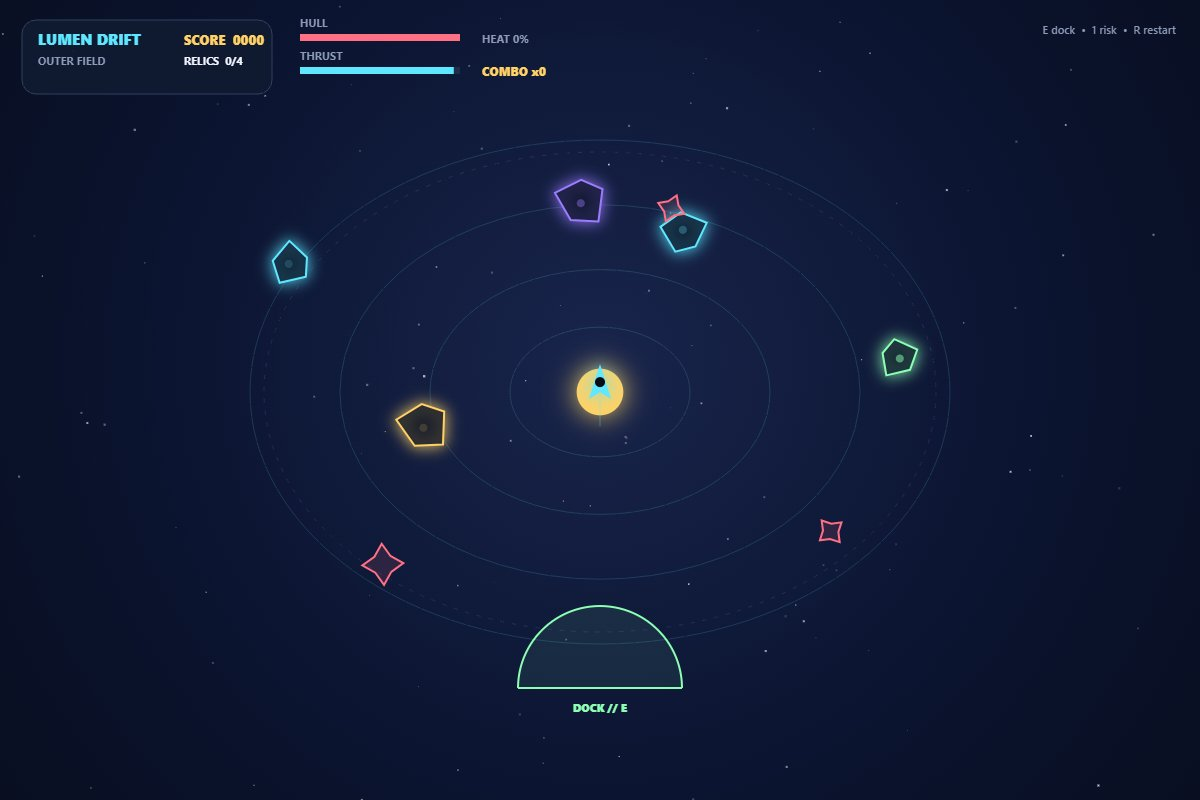
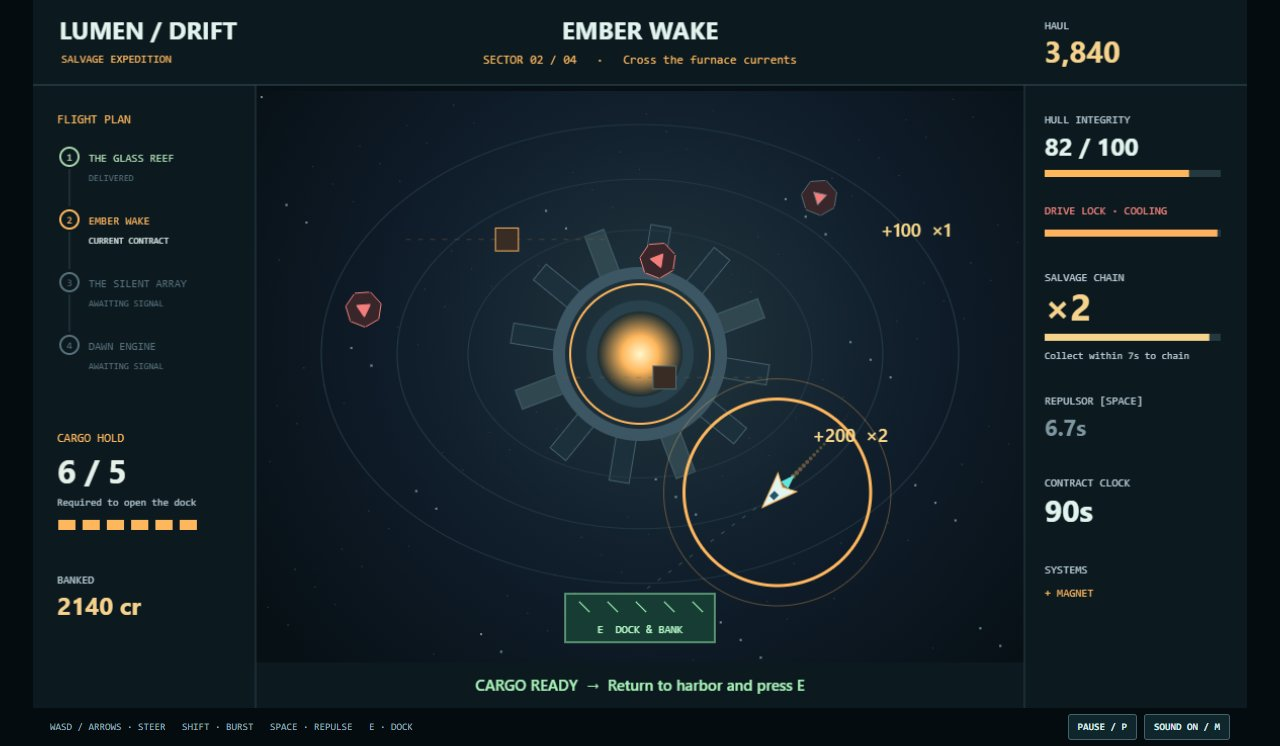
Expand Lumen Drift into four-sector salvage expedition

diff --git a/game/src/render.js b/game/src/render.js
@@ -1,0 +1,66 @@
+import {SECTORS} from './sectors.js';
+export function createRenderer(canvas){
+  const c=canvas.getContext('2d');canvas.width=1200;canvas.height=700;
+  function text(t,x,y,size=14,color='#b8cbd4',align='left'){c.fillStyle=color;c.font=`${size>=22?700:500} ${size}px ${size<15?'monospace':'system-ui'}`;c.textAlign=align;c.fillText(t,x,y);}
+  function line(x,y,a,b,color){c.strokeStyle=color;c.beginPath();c.moveTo(x,y);c.lineTo(a,b);c.stroke();}
+  function ring(x,y,r,col,width=1){c.strokeStyle=col;c.lineWidth=width;c.beginPath();c.arc(x,y,r,0,Math.PI*2);c.stroke();c.lineWidth=1;}
+  function polygon(x,y,r,n,angle,fill,stroke){c.beginPath();for(let i=0;i<n;i++){const a=angle+i*Math.PI*2/n;c.lineTo(x+Math.cos(a)*r,y+Math.sin(a)*r);}c.closePath();c.fillStyle=fill;c.fill();c.strokeStyle=stroke;c.stroke();}
+  return function renderMission(r,time){
+    const spec=SECTORS[r.sector],accent=spec.color;
+    c.fillStyle='#071015';c.fillRect(0,0,1200,700);
+    const nebula=c.createRadialGradient(620,330,20,620,330,480);nebula.addColorStop(0,'#20343d');nebula.addColorStop(.5,'#101d2b');nebula.addColorStop(1,'#071015');c.fillStyle=nebula;c.fillRect(220,90,760,570);
+    for(let i=0;i<150;i++){c.fillStyle=i%5===0?'#6f919c':'#2a444f';c.fillRect(225+(i*137.17)%750,95+(i*83.71)%560,i%5===0?2:1,i%5===0?2:1);}
+    // A broken orbital machine gives the salvage field a readable centre.
+    c.save();c.translate(600,350);c.rotate(time*.025);
+    for(let i=0;i<12;i++){c.save();c.rotate(i*Math.PI/6);c.fillStyle=i%3===0?'#304750':'#1b303a';c.fillRect(83,-10,45,20);c.strokeStyle='#45606a';c.strokeRect(83,-10,45,20);c.restore();}
+    ring(0,0,80,'#3c5663',12);ring(0,0,69,accent,2);ring(0,0,46,'#28414d',14);
+    const core=c.createRadialGradient(0,0,1,0,0,43);core.addColorStop(0,'#fff4c5');core.addColorStop(.4,accent);core.addColorStop(1,'#10242d');c.fillStyle=core;c.beginPath();c.arc(0,0,42,0,Math.PI*2);c.fill();c.restore();
+    for(const radius of [170,240,315]){c.save();c.translate(600,350);c.scale(1,.72);ring(0,0,radius,'#263e49');c.restore();}
+    for(const relic of r.relics)if(!relic.claimed){
+      ring(relic.x,relic.y,23+Math.sin(time*3)*2,accent+'55');
+      polygon(relic.x,relic.y,13,4,time*.5,'#19333c',relic.value===180?'#f5cf7a':accent);
+      c.fillStyle=relic.value===180?'#f5cf7a':accent;c.fillRect(relic.x-3,relic.y-3,6,6);
+      text(relic.value===180?'CORE':'SHARD',relic.x,relic.y+39,10,'#9db9c1','center');
+    }
+    for(const h of r.hazards){
+      const color=h.stunned?'#526b74':h.kind==='hunter'?'#e993ff':h.kind==='sentinel'?'#ffb35e':'#f47d7c';
+      if(h.kind==='sentinel'){
+        const hot=h.phase%5>3.8;c.setLineDash(hot?[]:[5,7]);line(h.x-100,h.y,h.x+100,h.y,hot?'#ffb35e':'#805c3970');c.setLineDash([]);
+        polygon(h.x,h.y,16,4,Math.PI/4,'#382c24',color);
+      }else if(h.kind==='hunter'){polygon(h.x,h.y,19,3,Math.atan2(r.ship.y-h.y,r.ship.x-h.x),'#39213f',color);ring(h.x,h.y,25,color+'55');}
+      else{polygon(h.x,h.y,18,7,h.phase,'#38262a',color);polygon(h.x,h.y,8,3,-h.phase,'#f47d7c',color);}
+    }
+    const ready=r.cargo>=spec.quota;
+    c.fillStyle=ready?'#173c34':'#172b30';c.fillRect(526,587,148,48);c.strokeStyle=ready?'#9cf4b4':'#4b6b70';c.strokeRect(526,587,148,48);
+    for(let i=0;i<5;i++){line(540+i*28,595,550+i*28,605,ready?'#9cf4b4':'#4b6b70');}
+    text(ready?'E  DOCK & BANK':'HARBOR  /  RETURN HERE',600,626,11,ready?'#baffcc':'#9db9c1','center');
+    if(ready){c.setLineDash([4,9]);line(r.ship.x,r.ship.y,600,587,'#9cf4b440');c.setLineDash([]);}
+    for(const p of r.trail){c.globalAlpha=Math.max(0,p.life)*.5;c.fillStyle=r.boosting?'#ffd98e':accent;c.beginPath();c.arc(p.x,p.y,3*p.life,0,Math.PI*2);c.fill();}c.globalAlpha=1;
+    if(r.pulseRadius){ring(r.ship.x,r.ship.y,170-r.pulseRadius,accent,3);ring(r.ship.x,r.ship.y,190-r.pulseRadius,accent+'55');}
+    c.save();c.translate(r.ship.x,r.ship.y);c.rotate(r.ship.angle);
+    if(r.invincible>0)c.globalAlpha=.45+.5*Math.sin(time*30)**2;
+    c.fillStyle=r.boosting?'#ffbf64':'#61e6df';c.beginPath();c.moveTo(-10,-5);c.lineTo(-24-(r.boosting?15:0)-Math.sin(time*30)*4,0);c.lineTo(-10,5);c.fill();
+    c.fillStyle='#e1f4ee';c.strokeStyle=accent;c.beginPath();c.moveTo(21,0);c.lineTo(-14,-13);c.lineTo(-7,0);c.lineTo(-14,13);c.closePath();c.fill();c.stroke();c.fillStyle='#25526a';c.fillRect(1,-3,7,6);c.restore();
+    for(const p of r.particles)text(p.text,p.x,p.y,18,'#f9d889','center');
+    // Cockpit rails: route left, resources right, objective across the bottom.
+    c.fillStyle='#0c191f';c.fillRect(0,0,1200,84);c.fillRect(0,84,220,616);c.fillRect(980,84,220,616);c.fillRect(220,655,760,45);
+    line(220,84,220,700,'#2a4149');line(980,84,980,700,'#2a4149');line(0,84,1200,84,'#35505a');
+    text('LUMEN / DRIFT',26,39,24,'#e1f4ee');text('SALVAGE EXPEDITION',28,62,11,accent);
+    text(spec.name,600,39,24,'#e1f4ee','center');text(`SECTOR 0${r.sector+1} / 04   ·   ${spec.subtitle}`,600,63,12,accent,'center');
+    text('HAUL',1000,29,11);text(r.score.toLocaleString(),1000,62,29,'#f6d38d');
+    text('FLIGHT PLAN',24,122,12,accent);
+    SECTORS.forEach((s,i)=>{const y=160+i*62,col=i===r.sector?accent:i<r.sector?'#a8d6ae':'#57717b';ring(36,y-5,9,col,2);if(i<3)line(36,y+7,36,y+44,'#30444d');text(String(i+1),36,y-1,10,col,'center');text(s.name,55,y,11,col);text(i<r.sector?'DELIVERED':i===r.sector?'CURRENT CONTRACT':'AWAITING SIGNAL',55,y+19,9,i===r.sector?'#d2e1df':'#57717b');});
+    text('CARGO HOLD',24,437,12,accent);text(`${r.cargo} / ${spec.quota}`,24,478,32,'#e4f0e8');text('Required to open the dock',24,500,10);
+    for(let i=0;i<spec.count;i++){c.fillStyle=i<r.cargo?accent:'#263a41';c.fillRect(25+i*24,514,17,10);}
+    text('BANKED',24,577,11);text(`${r.bank} cr`,24,608,24,'#f6d38d');
+    text('HULL INTEGRITY',1000,122,11);text(`${Math.ceil(r.hull)} / ${r.maxHull}`,1000,154,24,'#e1f4ee');
+    meter(c,1000,168,174,r.hull/r.maxHull,r.hull<35?'#fa8580':accent);
+    text(r.overheated?'DRIVE LOCK · COOLING':'DRIVE HEAT',1000,212,11,r.overheated?'#fa8580':'#b8cbd4');meter(c,1000,227,174,r.heat/100,'#ffb35e');
+    text('SALVAGE CHAIN',1000,278,11);text(`×${Math.max(1,r.combo)}`,1000,317,36,'#f6d38d');meter(c,1000,330,174,r.comboTime/7,'#f6d38d');text('Collect within 7s to chain',1000,355,10);
+    text('REPULSOR [SPACE]',1000,400,11);text(r.pulseCooldown>0?`${r.pulseCooldown.toFixed(1)}s`:'READY',1000,431,22,r.pulseCooldown>0?'#7d969f':accent);
+    text('CONTRACT CLOCK',1000,481,11);text(`${Math.ceil(r.remaining)}s`,1000,516,30,r.remaining<20?'#fa8580':'#e1f4ee');
+    text('SYSTEMS',1000,567,11);r.upgrades.forEach((u,i)=>text(`+ ${u.toUpperCase()}`,1000,590+i*19,11,accent));if(!r.upgrades.length)text('Stock salvage rig',1000,590,11);
+    text(ready?'CARGO READY  →  Return to harbor and press E':`RECOVER ${spec.quota-r.cargo} MORE  ·  Optional cores score extra`,600,683,15,ready?'#a8f3b8':'#d3e2df','center');
+  };
+}
+function meter(c,x,y,w,value,color){c.fillStyle='#253840';c.fillRect(x,y,w,7);c.fillStyle=color;c.fillRect(x,y,w*Math.max(0,Math.min(1,value)),7);}

diff --git a/game/src/mission.js b/game/src/mission.js
@@ -1,0 +1,68 @@
+import {SECTORS,populateSector} from './sectors.js';
+const clamp=(x,a,b)=>Math.max(a,Math.min(b,x));
+export function createMission(){
+  const run={phase:'play',sector:0,score:0,bank:0,cargo:0,delivered:0,hull:100,maxHull:100,heat:0,combo:0,comboTime:0,elapsed:0,remaining:100,invincible:0,pulseCooldown:0,pulseRadius:0,pickupRange:30,cooling:1,upgrades:[],events:[],trail:[],particles:[],hits:0,pulses:0,boosting:false,overheated:false,ship:{x:600,y:570,vx:0,vy:0,angle:-Math.PI/2}};
+  Object.assign(run,populateSector(0));return run;
+}
+export function tickMission(r,input,dt){
+  if(r.phase!=='play')return;
+  dt=clamp(dt,0,.05);r.elapsed+=dt;r.remaining-=dt;r.invincible=Math.max(0,r.invincible-dt);r.pulseCooldown=Math.max(0,r.pulseCooldown-dt);r.pulseRadius=Math.max(0,r.pulseRadius-dt*240);
+  r.comboTime=Math.max(0,r.comboTime-dt);if(!r.comboTime)r.combo=0;
+  r.heat=Math.max(0,r.heat-dt*18*r.cooling);if(r.heat<30)r.overheated=false;
+  const s=r.ship, dx=input.x||0,dy=input.y||0, length=Math.hypot(dx,dy)||1;
+  r.boosting=!!input.boost&&!r.overheated&&(dx!==0||dy!==0);
+  if(r.boosting){r.heat=Math.min(100,r.heat+dt*48);if(r.heat>=99){r.overheated=true;r.events.push('overheat');}}
+  const speed=r.boosting?300:190, blend=1-Math.exp(-dt*12);
+  s.vx+=(dx/length*speed-s.vx)*blend;s.vy+=(dy/length*speed-s.vy)*blend;
+  s.x=clamp(s.x+s.vx*dt,240,960);s.y=clamp(s.y+s.vy*dt,120,630);
+  if(Math.hypot(s.vx,s.vy)>10)s.angle=Math.atan2(s.vy,s.vx);
+  if(Math.hypot(s.vx,s.vy)>15){r.trail.push({x:s.x,y:s.y,life:1});if(r.trail.length>35)r.trail.shift();}
+  for(const p of r.trail)p.life-=dt*2;r.trail=r.trail.filter(p=>p.life>0);
+  for(const relic of r.relics){
+    if(!relic.claimed&&Math.hypot(s.x-relic.x,s.y-relic.y)<r.pickupRange){
+      relic.claimed=true;r.cargo++;r.combo=Math.min(5,r.combo+1);r.comboTime=7;
+      const points=relic.value*r.combo;r.score+=points;r.events.push('collect');
+      r.particles.push({x:relic.x,y:relic.y,text:`+${points}  ×${r.combo}`,life:1.4});
+    }
+  }
+  for(const h of r.hazards){
+    h.phase+=dt;h.stunned=Math.max(0,h.stunned-dt);
+    if(h.stunned)continue;
+    if(h.kind==='hunter'){
+      if(!h.x){h.x=600+Math.cos(h.angle)*h.radius;h.y=350+Math.sin(h.angle)*h.radius*.7;}
+      const distance=Math.hypot(s.x-h.x,s.y-h.y)||1;
+      const pace=distance<260?60+r.sector*8:20;
+      h.x+=(s.x-h.x)/distance*pace*dt;h.y+=(s.y-h.y)/distance*pace*dt;
+    }else{
+      h.angle+=dt*(h.kind==='sentinel'?.20:.40)*(h.radius%2?1:-1);
+      h.x=600+Math.cos(h.angle)*h.radius;h.y=350+Math.sin(h.angle)*h.radius*.72;
+    }
+    const beam=h.kind==='sentinel'&&h.phase%5>3.8;
+    const hit=Math.hypot(s.x-h.x,s.y-h.y)<h.r+14 || (beam&&Math.abs(s.y-h.y)<9&&Math.abs(s.x-h.x)<100);
+    if(hit&&r.invincible===0){r.hull=Math.max(0,r.hull-18);r.hits++;r.invincible=1.3;r.combo=0;r.events.push('hit');}
+  }
+  for(const p of r.particles){p.life-=dt;p.y-=dt*18;}r.particles=r.particles.filter(p=>p.life>0);
+  if(r.hull<=0||r.remaining<=0){r.phase='lost';r.events.push('lost');}
+}
+export function usePulse(r){
+  if(r.phase!=='play'||r.pulseCooldown>0)return false;
+  r.pulseCooldown=7;r.pulseRadius=150;r.pulses++;r.events.push('pulse');
+  for(const h of r.hazards)if(Math.hypot(r.ship.x-h.x,r.ship.y-h.y)<170){
+    h.stunned=2.8;
+    const dx=h.x-r.ship.x,dy=h.y-r.ship.y,d=Math.hypot(dx,dy)||1;
+    h.x+=dx/d*90;h.y+=dy/d*90;
+  }
+  return true;
+}
+export function tryDock(r){
+  if(r.phase!=='play'||Math.hypot(r.ship.x-600,r.ship.y-610)>68||r.cargo<SECTORS[r.sector].quota)return false;
+  r.delivered+=r.cargo;r.bank=r.score;r.events.push('dock');
+  r.phase=r.sector===3?'won':'upgrade';if(r.phase==='won'){r.score+=Math.round(r.remaining)*10;r.bank=r.score;}
+  return true;
+}
+export function chooseUpgrade(r,id){
+  if(r.phase!=='upgrade'||!['shield','magnet','cooling'].includes(id))return false;
+  r.upgrades.push(id);if(id==='shield')r.maxHull+=30;if(id==='magnet')r.pickupRange+=22;if(id==='cooling')r.cooling*=1.45;
+  r.sector++;r.cargo=0;r.combo=0;r.heat=0;r.overheated=false;r.hull=r.maxHull;r.remaining=SECTORS[r.sector].time;
+  r.ship={x:600,y:570,vx:0,vy:0,angle:-Math.PI/2};r.trail=[];r.phase='play';Object.assign(r,populateSector(r.sector));return true;
+}

diff --git a/game/src/style.css b/game/src/style.css
@@ -1,1 +1,1 @@
-:root{font-family:Inter,ui-sans-serif,system-ui,sans-serif;color:#f2f5ff;background:#070b16}*{box-sizing:border-box}html,body{margin:0;width:100%;height:100%;overflow:hidden;background:#070b16}body{display:grid;place-items:center}canvas{display:block;width:100vw;height:100vh;touch-action:none;cursor:crosshair}#status{position:absolute;width:1px;height:1px;overflow:hidden;clip-path:inset(50%);white-space:nowrap}
+:root{font-family:'Segoe UI',system-ui,sans-serif;color:#e1f4ee;background:#050c10}*{box-sizing:border-box}html,body{margin:0;width:100%;height:100%;overflow:hidden}body{display:flex;flex-direction:column;align-items:center;justify-content:center}#flight-deck{position:relative;width:min(100vw,calc((100vh - 38px)*12/7));aspect-ratio:12/7;overflow:hidden;background:#071015}canvas{display:block;width:100%;height:100%}#screens{position:absolute;inset:0;container-type:inline-size;background:#061016a8}#screens[hidden]{display:none}.briefing{position:absolute;inset:0;padding:4.8% 5%;background:linear-gradient(90deg,#09171ff5 0%,#09171ff2 45%,#09171f25 85%)}.eyebrow{font:600 1cqw monospace;letter-spacing:.17em;color:#72d9cf;margin:0 0 1.4cqw}h1{font-size:7.5cqw;letter-spacing:-.045em;line-height:.88;margin:0;font-weight:800}h1 span{color:#72d9cf}h2{font-size:4.7cqw;line-height:1.03;letter-spacing:-.04em;margin:1.3cqw 0 1.8cqw}.lead{font-size:1.9cqw;color:#e1f4ee;margin:1.6cqw 0}.intro{font-size:1.25cqw;line-height:1.6;color:#a4bac3}.brief-controls{display:grid;gap:.7cqw;margin:1.8cqw 0;font-size:1.1cqw}.brief-controls span{display:block}kbd{font:inherit;color:#c2f2e5}button{font:600 11px monospace;border:1px solid #45626b;background:#10262d;color:#d6e9e4;cursor:pointer;border-radius:3px;padding:9px 13px}button:hover{background:#25414a;border-color:#91e6d5}button:focus-visible{outline:3px solid #f5cf7a;outline-offset:3px}button:disabled{opacity:.4;cursor:default}#launch,.modal>button{background:#a5efca;color:#102a27;border:0;padding:1.1cqw 2cqw;font-size:1.15cqw}#title{background:#19343d;color:#cce1dd;margin-left:1cqw}.record{color:#7896a1;font:1cqw monospace;margin-top:1.5cqw}.field-guide{position:absolute;right:5%;bottom:12%;width:32%;padding:1.8cqw;background:#0b1b22ee;border:1px solid #35525d}.field-guide b{font:1.1cqw monospace;letter-spacing:.14em;color:#8ba9b3}.field-guide p{font:600 1.2cqw monospace;margin:1.7cqw 0 0}.field-guide small{display:block;margin:.7cqw 0 0 2.5cqw;font:1cqw 'Segoe UI',sans-serif;color:#9ab1bb}.field-guide i{font-style:normal;font-size:1.8cqw;margin-right:.5cqw}.red{color:#f47d7c}.gold{color:#ffb35e}.purple{color:#e993ff}.modal{position:absolute;inset:9% 9%;padding:3.5cqw;background:#0b1b23f5;border:1px solid #42626c;box-shadow:0 20px 100px #0008}.modal.compact{inset:24% 25%}.modal.compact h2{font-size:4cqw}.modal.compact p{font-size:1.3cqw}.modal.compact button{margin:.8cqw .5cqw 0 0}.upgrades{display:grid;grid-template-columns:repeat(3,1fr);gap:1.1cqw;margin:3cqw 0}.upgrades button{padding:1.6cqw;text-align:left;min-height:12cqw}.upgrades span{font:1cqw monospace;color:#87b9bb}.upgrades strong{display:block;font-size:1.5cqw;margin:1.3cqw 0}.upgrades small{font:1.1cqw 'Segoe UI',sans-serif;color:#9dbbc1;line-height:1.6}.hint{font:1.1cqw monospace;color:#a2bdc3}.results{display:grid;grid-template-columns:2fr 1fr 1fr 1fr;gap:2cqw;margin:2.7cqw 0;padding:2cqw 0;border-block:1px solid #35505a}.results small{display:block;font:1cqw monospace;color:#91adb7}.results strong{display:block;font-size:3.4cqw;color:#f5cf7a;margin-top:.7cqw}footer{height:38px;width:min(1200px,100%);display:flex;align-items:center;justify-content:space-between;padding:0 10px;gap:10px;color:#93aeb8;font:10px monospace}footer nav{display:flex;gap:7px}footer button{font-size:10px;padding:6px 9px}#status{position:absolute;width:1px;height:1px;overflow:hidden;clip-path:inset(50%)}@media(max-width:800px){footer>span{font-size:8px}footer button{font-size:8px;padding:5px}}@media(prefers-reduced-motion:reduce){*{scroll-behavior:auto}}

diff --git a/game/src/screens.js b/game/src/screens.js
@@ -1,0 +1,14 @@
+import {UPGRADES} from './sectors.js';
+export function createScreens(root,onAction){
+  let shown='';
+  root.addEventListener('click',e=>{const b=e.target.closest('button[data-action]');if(b)onAction(b.dataset.action);});
+  return function showScreen(phase,r,record){
+    if(shown===phase)return;shown=phase;root.hidden=phase==='play';
+    if(phase==='play'){root.innerHTML='';return;}
+    const button=(id,label)=>`<button id="${id}" data-action="${id}">${label}</button>`;
+    if(phase==='title')root.innerHTML=`<section class="briefing"><p class="eyebrow">FLIGHT DIVISION / EXPEDITION 04</p><h1>LUMEN<br><span>DRIFT</span></h1><p class="lead">Bring the last light home.</p><p class="intro">Four abandoned sectors. One salvage rig.<br>Chain recoveries, repel machines, and bank your cargo before the signal fades.</p><div class="brief-controls"><span><kbd>WASD</kbd> / arrows · steer</span><span><kbd>SHIFT</kbd> burst · watch heat</span><span><kbd>SPACE</kbd> repulse nearby threats</span><span><kbd>E</kbd> dock · repair & upgrade</span></div>${button('launch','LAUNCH EXPEDITION →')}<p class="record">PERSONAL BEST ${record.best.toLocaleString()} cr · ${record.wins} expeditions completed</p><div class="field-guide"><b>KNOW THE FIELD</b><p><i class="red">◆</i> DRIFTER <small>Circles the wreck. Cross its path carefully.</small></p><p><i class="gold">▣</i> SENTINEL <small>Dashed warning → horizontal beam.</small></p><p><i class="purple">△</i> HUNTER <small>Chases within range. Burst or repulse.</small></p></div></section>`;
+    if(phase==='upgrade')root.innerHTML=`<section class="modal"><p class="eyebrow">SECTOR ${r.sector+1} SECURED / CARGO BANKED</p><h2>Make the next<br>crossing yours.</h2><p class="lead">${r.bank.toLocaleString()} credits safe · full repairs on departure</p><div class="upgrades">${UPGRADES.map((u,i)=>`<button data-action="${u.id}"><span>0${i+1} / PRESS ${i+1}</span><strong>${u.name}</strong><small>${u.detail}</small></button>`).join('')}</div><p class="hint">Choose one permanent upgrade. Three choices. Four sectors.</p></section>`;
+    if(phase==='paused')root.innerHTML=`<section class="modal compact"><p class="eyebrow">FLIGHT SUSPENDED</p><h2>Take a breath.</h2><p>The clock and the field are paused.</p>${button('resume','RESUME FLIGHT / P')}${button('restart','RESTART EXPEDITION')}</section>`;
+    if(phase==='won'||phase==='lost')root.innerHTML=`<section class="modal"><p class="eyebrow">${phase==='won'?'ALL FOUR SECTORS RECOVERED':'EXPEDITION ENDED'}</p><h2>${phase==='won'?'The harbor<br>lights again.':'Signal lost.'}</h2><p class="lead">${phase==='won'?'SALVAGE CONTRACT COMPLETE':r.hull<=0?'Hull breached. Bank early and use your repulsor.':'Contract clock expired. Burst between recoveries.'}</p><div class="results"><div><small>${phase==='won'?'FINAL HAUL':'RECOVERED SCORE'}</small><strong>${r.score.toLocaleString()}</strong></div><div><small>DELIVERED</small><strong>${r.delivered}</strong></div><div><small>FLIGHT TIME</small><strong>${Math.round(r.elapsed)}s</strong></div><div><small>HULL HITS</small><strong>${r.hits}</strong></div></div><p class="record">PERSONAL BEST ${record.best.toLocaleString()} cr · ${record.wins} completed expeditions</p>${button('restart','FLY AGAIN / R')}${button('title','MISSION BRIEFING')}</section>`;
+  };
+}

diff --git a/game/src/flight.js b/game/src/flight.js
@@ -1,0 +1,51 @@
+import {createMission,tickMission,tryDock,chooseUpgrade,usePulse} from './mission.js';
+import {createRenderer} from './render.js';
+import {createScreens} from './screens.js';
+import {createInput} from './input.js';
+import {createAudio} from './audio.js';
+import {loadRecord,saveRecord} from './save.js';
+const canvas=document.querySelector('#game'),status=document.querySelector('#status');
+const render=createRenderer(canvas),sound=createAudio();
+let run=createMission(),phase='title',record=loadRecord(),last=0,recorded=false;
+const show=createScreens(document.querySelector('#screens'),act);
+const input=createInput(key=>{
+  if(key==='blur'){if(phase==='play')act('pause');return;}
+  if(key==='r')act('restart');
+  if(key==='p'||key==='escape')act(phase==='paused'?'resume':'pause');
+  if(key==='m')act('sound');
+  if((key==='enter'||key===' ')&&phase==='title')act('launch');
+  else if(key===' '&&phase==='play')usePulse(run);
+  if(key==='e')act('dock');
+  if(phase==='upgrade'&&['1','2','3'].includes(key))act(['shield','magnet','cooling'][Number(key)-1]);
+});
+function act(action){
+  if(action==='launch'||action==='restart'){run=createMission();phase='play';recorded=false;sound.play('launch');}
+  if(action==='pause'&&phase==='play'){phase='paused';run.phase='paused';}
+  if(action==='resume'&&phase==='paused'){phase='play';run.phase='play';}
+  if(action==='title'){phase='title';run=createMission();}
+  if(action==='dock'&&phase==='play'&&!tryDock(run))status.textContent='Collect the cargo quota, then fly into the harbor and press E.';
+  if(['shield','magnet','cooling'].includes(action)&&chooseUpgrade(run,action))phase='play';
+  if(action==='sound')document.querySelector('#sound').textContent=sound.toggle()?'SOUND OFF / M':'SOUND ON / M';
+}
+document.querySelector('#pause').onclick=()=>act(phase==='paused'?'resume':'pause');
+document.querySelector('#sound').onclick=()=>act('sound');
+canvas.addEventListener('pointerdown',e=>{
+  if(phase!=='play')return;
+  const b=canvas.getBoundingClientRect(),x=(e.clientX-b.left)*1200/b.width,y=(e.clientY-b.top)*700/b.height;
+  if(Math.hypot(x-600,y-610)<80)act('dock');else usePulse(run);
+});
+// Telemetry returns a copy; gameplay checks use normal keyboard input.
+window.lumenState=()=>JSON.parse(JSON.stringify({screen:phase,run,record}));
+function frame(now){
+  const dt=Math.min(.04,(now-last)/1000||0);last=now;
+  if(phase==='play'){
+    tickMission(run,input(),dt);phase=run.phase;
+    for(const event of run.events.splice(0))sound.play(event);
+    if((phase==='won'||phase==='lost')&&!recorded){record=saveRecord(run,record);recorded=true;}
+    status.textContent=`Sector ${run.sector+1}. Cargo ${run.cargo}. Hull ${Math.ceil(run.hull)}. Score ${run.score}.`;
+  }
+  render(run,now/1000);show(phase,run,record);
+  document.querySelector('#pause').disabled=!['play','paused'].includes(phase);
+  requestAnimationFrame(frame);
+}
+requestAnimationFrame(frame);

diff --git a/game/src/sectors.js b/game/src/sectors.js
@@ -1,0 +1,23 @@
+export const SECTORS = [
+  {name:'THE GLASS REEF',subtitle:'Wake the navigation buoys',color:'#61e6df',hazards:['drifter'],count:5,quota:5,time:100},
+  {name:'EMBER WAKE',subtitle:'Cross the furnace currents',color:'#ffb75d',hazards:['drifter','sentinel'],count:6,quota:5,time:95},
+  {name:'THE SILENT ARRAY',subtitle:'Outrun the listening machines',color:'#b9a1ff',hazards:['hunter','sentinel'],count:7,quota:6,time:100},
+  {name:'DAWN ENGINE',subtitle:'Bring the last light home',color:'#f4dc88',hazards:['drifter','hunter','sentinel'],count:6,quota:6,time:95}
+];
+export const UPGRADES = [
+  {id:'shield',name:'REINFORCED HULL',detail:'+30 hull capacity · repair to full'},
+  {id:'magnet',name:'SALVAGE MAGNET',detail:'+22 pickup range · faster routes'},
+  {id:'cooling',name:'COLD DRIVE',detail:'Heat cools 45% faster · burst longer'}
+];
+export function populateSector(index){
+  const spec=SECTORS[index];
+  const relics=Array.from({length:spec.count},(_,i)=>{
+    const a=-Math.PI/2+i*Math.PI*2/spec.count;
+    return {x:600+Math.cos(a)*(240+(i%2)*75),y:360+Math.sin(a)*(170+(i%2)*40),r:13,claimed:false,value:i%3===0?180:100};
+  });
+  const hazards=Array.from({length:3+index*2},(_,i)=>({
+    kind:spec.hazards[i%spec.hazards.length],angle:i*2.399+0.6,radius:130+(i%3)*75,
+    x:0,y:0,r:15,phase:i*.9,stunned:0
+  }));
+  return {relics,hazards};
+}

diff --git a/game/index.html b/game/index.html
@@ -3,12 +3,16 @@
 <head>
 <meta charset="utf-8">
 <meta name="viewport" content="width=device-width, initial-scale=1">
-<title>Lumen Drift</title>
+<title>Lumen Drift · Salvage Expedition</title>
 <link rel="stylesheet" href="./src/style.css">
 </head>
 <body>
-<canvas id="game" aria-label="Lumen Drift orbital salvage game"></canvas>
+<main id="flight-deck">
+<canvas id="game" aria-label="Orbital salvage field with ship, cargo, hazards and harbor"></canvas>
+<div id="screens"></div>
+</main>
+<footer><span>WASD / ARROWS · STEER &nbsp; SHIFT · BURST &nbsp; SPACE · REPULSE &nbsp; E · DOCK</span><nav><button id="pause">PAUSE / P</button><button id="sound">SOUND ON / M</button></nav></footer>
 <div id="status" role="status" aria-live="polite"></div>
-<script type="module" src="./src/main.js"></script>
+<script type="module" src="./src/flight.js"></script>
 </body>
 </html>

diff --git a/game/src/audio.js b/game/src/audio.js
@@ -1,0 +1,11 @@
+export function createAudio(){
+  let ctx,muted=false;
+  return {toggle(){muted=!muted;return muted;},play(event){
+    if(muted)return;
+    try{
+      ctx??=new AudioContext();if(ctx.state==='suspended')ctx.resume();
+      const tones={collect:[660,990],dock:[330,440,660],pulse:[140,420],hit:[120,75],lost:[220,130,65],launch:[220,440],overheat:[180,180]};
+      (tones[event]||[440]).forEach((hz,i)=>{const o=ctx.createOscillator(),g=ctx.createGain(),start=ctx.currentTime+i*.075;o.type=event==='hit'?'triangle':'sine';o.frequency.setValueAtTime(hz,start);g.gain.setValueAtTime(.035,start);g.gain.exponentialRampToValueAtTime(.0001,start+.23);o.connect(g).connect(ctx.destination);o.start(start);o.stop(start+.24);});
+    }catch{/* Audio is optional when the browser denies playback. */}
+  }};
+}

diff --git a/game/src/input.js b/game/src/input.js
@@ -1,0 +1,11 @@
+export function createInput(action){
+  const keys=new Set();
+  addEventListener('keydown',e=>{
+    const key=e.key.toLowerCase();
+    if(['arrowup','arrowdown','arrowleft','arrowright',' '].includes(key))e.preventDefault();
+    keys.add(key);if(!e.repeat)action(key);
+  });
+  addEventListener('keyup',e=>keys.delete(e.key.toLowerCase()));
+  addEventListener('blur',()=>{keys.clear();action('blur');});
+  return ()=>({x:Number(keys.has('d')||keys.has('arrowright'))-Number(keys.has('a')||keys.has('arrowleft')),y:Number(keys.has('s')||keys.has('arrowdown'))-Number(keys.has('w')||keys.has('arrowup')),boost:keys.has('shift')});
+}

diff --git a/game/src/save.js b/game/src/save.js
@@ -1,0 +1,9 @@
+const KEY='lumen-drift.expedition.v2';
+export function loadRecord(storage=globalThis.localStorage){
+  try{const r=JSON.parse(storage.getItem(KEY));return {best:Math.max(0,Number(r?.best)||0),wins:Math.max(0,Number(r?.wins)||0)};}catch{return {best:0,wins:0};}
+}
+export function saveRecord(run,record,storage=globalThis.localStorage){
+  const next={best:Math.max(record.best,run.score),wins:record.wins+(run.phase==='won'?1:0)};
+  try{storage.setItem(KEY,JSON.stringify(next));}catch{/* Private browsing still permits a complete run. */}
+  return next;
+}

diff --git a/README.md b/README.md
@@ -1,29 +1,31 @@
 # Lumen Drift
 
-[![make.fun](https://make.fun/badge/best-game-01.svg)](https://make.fun/c/best-game-01)
-[![Rank](https://make.fun/badge/best-game-01/kriptmwan/lumen-drift-best-game/rank.svg)](https://make.fun/c/best-game-01)
-[![Reward](https://make.fun/badge/best-game-01/kriptmwan/lumen-drift-best-game/reward.svg)](https://make.fun/c/best-game-01)
+[![make.fun](https://make.fun/badge/best-game-01.svg)](https://make.fun/bounty/best-game-01)
+[![Rank](https://make.fun/badge/best-game-01/kriptmwan/lumen-drift-best-game/rank.svg)](https://make.fun/bounty/best-game-01)
+[![Reward](https://make.fun/badge/best-game-01/kriptmwan/lumen-drift-best-game/reward.svg)](https://make.fun/bounty/best-game-01)
 
-An original offline orbital salvage game. Gather four artifacts in each of two fields, then return to the green dock. Dodge coral mines and preserve your hull. After the first haul, return to repair or press 1 to enter a denser field for double salvage pay without repairs.
+A four-sector orbital salvage expedition. Chain recoveries for score, burst between wrecks without overheating, repel hazards, then dock to bank your cargo and choose a permanent upgrade. Drifters circle the wreck, sentinels telegraph beam attacks, and hunters pursue your ship. Complete the Dawn Engine contract to win.
 
 ## Play
 
 Run `node serve.ts --port 8793`, then visit http://127.0.0.1:8793. The game has no external assets, packages, fonts, or requests. All artwork is drawn with Canvas2D and sound is synthesized with Web Audio.
 
-- WASD / arrow keys: steer
-- Shift: boost while thrust reserve remains
-- E: dock (requires four artifacts and proximity to the dock)
-- 1: accept double-pay risk after first cargo bay fills
-- R: restart
-- Click: begin, restart, or interact with the dock / route choice
+- WASD / arrow keys: steer (diagonal movement is normalized)
+- Shift: burst; overheating locks boost until the drive cools
+- Space / click the field: repulsor, with a seven-second cooldown
+- E / click harbor: dock after meeting the sector quota
+- 1 / 2 / 3: choose an upgrade at the dock
+- P / Escape: pause; changing window focus also pauses
+- M: toggle synthesized sound
+- R: restart; Enter / Space: launch from the briefing
 
 ## Submission
 
-`MAKEFUN_OUTPUT_DIR=out node main.ts` copies the game and three genuine browser screenshots, then builds the deterministic dossier with the unchanged competition vendor library. Node 22.18+; no installation or build step.
+`MAKEFUN_OUTPUT_DIR=out node main.ts` copies the game and four genuine browser screenshots, then builds the deterministic dossier with the unchanged competition vendor library. Node 22.18+; no installation or build step.
 
 ## Verification
 
-Chrome keyboard-event playtest completed two fields, four artifacts each, and docked with 1,190 credits and 80 hull. Restart returned score and cargo to zero. Two independent dossier builds matched SHA-256. Screenshot capture uses Chrome's actual renderer at 1200×800, JPEG quality 85, without editing or compositing.
+Run `node --test tests/*.test.mjs` for mission regression checks. Real Chrome keyboard-event play completed all four sectors, delivered all 24 items, and won with 7,690 credits and 112/130 hull. All three upgrade choices were used during the run. No JavaScript errors were captured. The four 1280×746 JPEG screenshots are unedited Chrome renders of play, briefing, dock upgrades, and victory, all below 256 KiB. Two independent builds matched all 15 output files byte for byte; the competition vendor library remains unchanged.
 
 The screenshot vision-review service returned HTTP 403; automated gameplay and screenshot capture succeeded, but no claim of visual human review is made.
 
